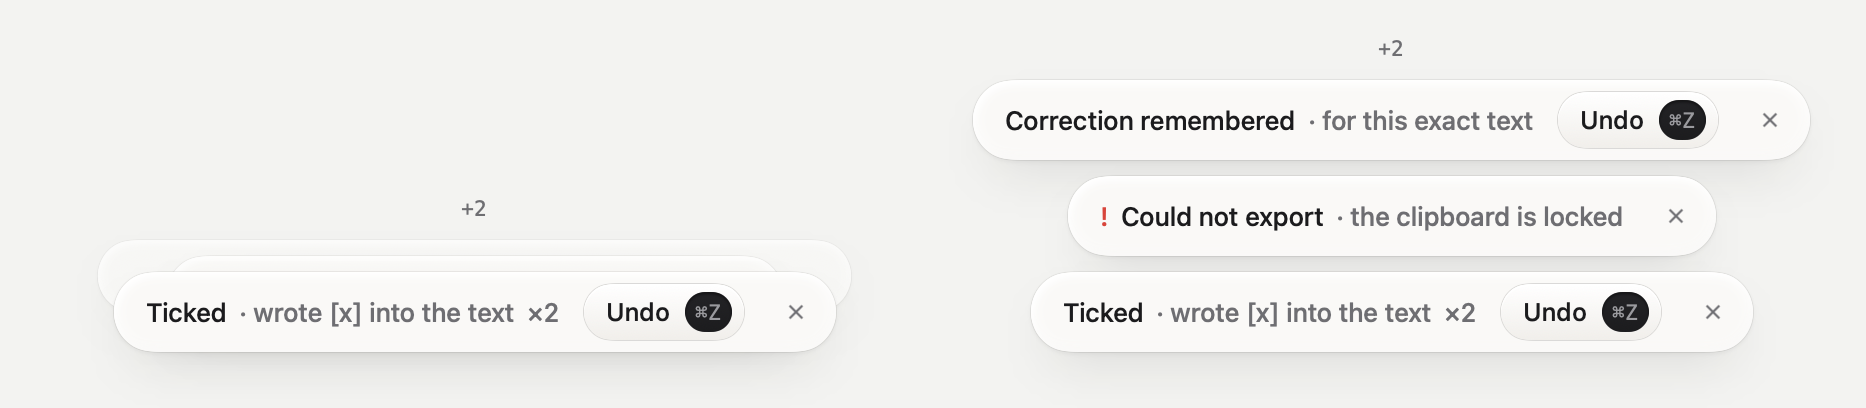
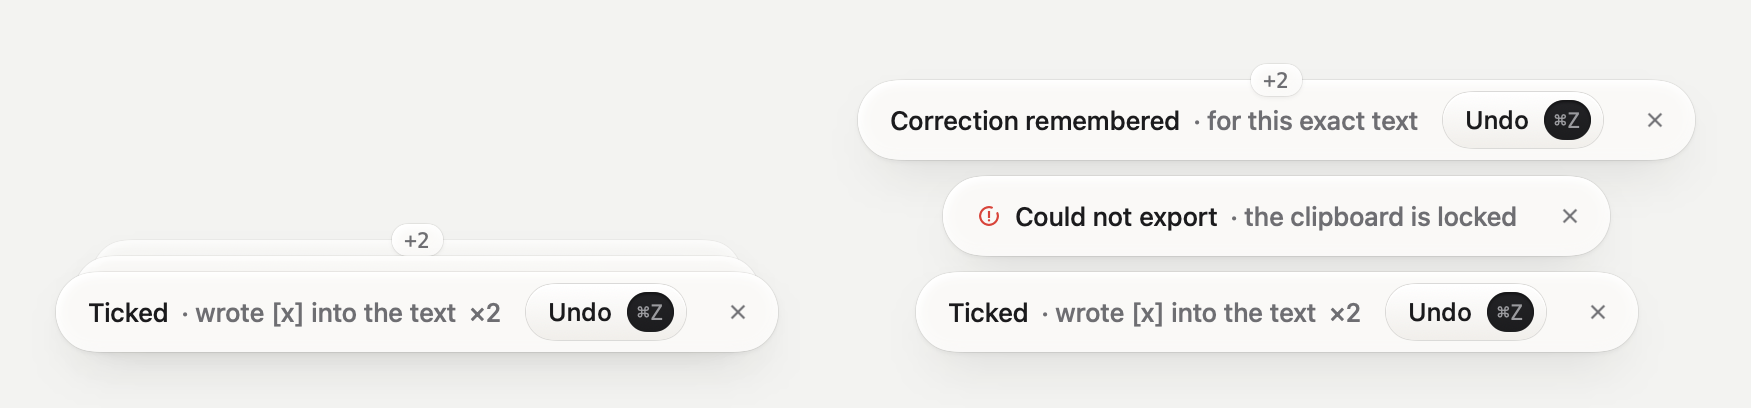
feat(toast): cards behind take the front card's width; +N on a tab; marks from the set
- Folded, the cards behind take the front card's layout width (measured by
  a ResizeObserver, --mu-toast-front-w); fanned out, each its own width.
- The "+N" count is a small glass tab on the back card's top edge
  (deck.more-height 16, deck.more-pad 6) instead of floating above it.
- React error toasts carry the set's sync-error in red, success the set's
  check (was a text ✓); SwiftUI uses the same glyphs (was "✓" and "!").
- SwiftUI: the deck fans out on keyboard focus too (one focus stop, and
  focus on a card's keys keeps it open, via a FocusedValue), not only hover.

diff --git a/swift/Sources/MetalUI/Components/MetalToast.swift b/swift/Sources/MetalUI/Components/MetalToast.swift
@@ -45,6 +45,8 @@ public struct MetalToast: View {
     let onClose: (() -> Void)?
     /// A card behind the front of a folded deck: the pill shows, its words don't.
     var concealed = false
+    /// A card behind the front one takes the front card's width.
+    var width: CGFloat?
     @Environment(\.metalColorway) private var colorway
 
     public init(_ model: MetalToastModel, count: Int = 1, onUndo: @escaping () -> Void = {}, onClose: (() -> Void)? = nil) {
@@ -59,8 +61,8 @@ public struct MetalToast: View {
         let cw = MetalRecipeColorway(colorway)
         return HStack(spacing: recipe.points("self.gap")) {
             HStack(spacing: recipe.points("text.gap")) {
-                if model.tone == .success { Text("✓").foregroundColor(MetalShared.success.color).accessibilityLabel("Done") }
-                if model.tone == .error { Text("!").foregroundColor(MetalShared.red.color).accessibilityLabel("Error") }
+                if model.tone == .success { MetalIcon(.check, size: 14).foregroundStyle(MetalShared.success.color).accessibilityLabel("Done") }
+                if model.tone == .error { MetalIcon(.syncError, size: 14).foregroundStyle(MetalShared.red.color).accessibilityLabel("Error") }
                 Text(model.title)
                 if let sub = model.sub { Text("· \(sub)").foregroundColor((recipe.color("sub.ink", colorway: cw) ?? colorway.tokens.ink2).color) }
                 if count > 1 {
@@ -105,6 +107,7 @@ public struct MetalToast: View {
         .padding(.trailing, model.undo != nil || onClose != nil ? recipe.points("self.pad-right") : recipe.points("self.pad-left"))
         .frame(height: recipe.points("self.height"))
         .fixedSize()
+        .frame(width: width)
         .metalObjectRecipe(recipe, part: "self", in: Capsule(style: .continuous))
         .background(.ultraThinMaterial, in: Capsule(style: .continuous))
         .accessibilityElement(children: .contain)
@@ -168,11 +171,12 @@ extension View {
 //
 // rest      each card behind is a step smaller (deck.step-scale), peeks deck.peek upward
 //           past the card in front, is deck.dim dimmer, its words hidden; deck.visible
-//           drawn, the rest counted (+2) above the back card
+//           drawn, the rest counted (+2) on a tab in the back card's top edge; the cards behind
+//           take the front card's width (fanned out, each its own)
 // arrive    the new card rises self.rise from below, from self.scale, into the front on the
 //           object spring; the cards behind step back one on the same spring, together
-// fan out   the pointer on the deck: a column deck.gap apart on the surface spring; every
-//           clock pauses. The pointer leaves: back into the deck on the surface spring
+// fan out   the pointer on the deck, or keyboard focus in it: a column deck.gap apart on the
+//           surface spring; every clock pauses. Both leave: back into the deck on the surface spring
 // swipe     the front card follows the finger (down or right); past deck.swipe on release
 //           it leaves on release; short of it, it settles home
 // close     its close key: it leaves on release; the next card comes forward
@@ -219,6 +223,7 @@ public struct MetalToastDeckView: View {
     let deck: MetalToastDeck
     let expanded: Bool
     @State private var drag: CGSize = .zero
+    @State private var frontWidth: CGFloat?
     @Environment(\.accessibilityReduceMotion) private var reduceMotion
 
     public init(_ deck: MetalToastDeck, expanded: Bool = false) {
@@ -242,7 +247,9 @@ public struct MetalToastDeckView: View {
                 MetalToastDeckCard(deck: deck, card: card, index: index, expanded: expanded,
                                    drag: index == 0 ? drag : .zero, travel: travel,
                                    more: index == drawn.count - 1 ? more : 0,
+                                   width: index > 0 && !expanded ? frontWidth : nil,
                                    onDismiss: { dismiss(card.id) })
+                    .onGeometryChange(for: CGFloat.self) { $0.size.width } action: { if index == 0 { frontWidth = $0 } }
                     .zIndex(Double(visible - index))
                     .gesture(swipe(card.id), including: index == 0 ? .all : .subviews)
                     .transition(.asymmetric(
@@ -288,6 +295,7 @@ private struct MetalToastDeckCard: View {
     let drag: CGSize
     let travel: Bool
     let more: Int
+    let width: CGFloat?
     let onDismiss: () -> Void
     @State private var pressed = false
     @Environment(\.accessibilityReduceMotion) private var reduceMotion
@@ -300,6 +308,7 @@ private struct MetalToastDeckCard: View {
         let lift = expanded ? step * (recipe.points("self.height") + recipe.points("deck.gap")) : step * recipe.points("deck.peek")
         var toast = MetalToast(card.model, count: card.count, onUndo: onDismiss, onClose: onDismiss)
         toast.concealed = index > 0 && !expanded
+        toast.width = width
         return toast
             .metalHitRegion(true)
             .scaleEffect(pressed && travel ? recipe.scalar("deck.press") : 1)
@@ -315,8 +324,11 @@ private struct MetalToastDeckCard: View {
                         .metalType(MetalType.readout)
                         .foregroundColor((recipe.color("sub.ink", colorway: MetalRecipeColorway(colorway)) ?? colorway.tokens.ink2).color)
                         .fixedSize()
-                        // Above the card where it is drawn (its offset moves the drawing, not its frame).
-                        .offset(y: -(MetalType.readout.line + recipe.points("deck.peek")) - lift)
+                        .padding(.horizontal, recipe.points("deck.more-pad"))
+                        .frame(height: recipe.points("deck.more-height"))
+                        .metalObjectRecipe(recipe, part: "self", in: Capsule(style: .continuous))
+                        // A tab on the back card's top edge, where it is drawn (its offset moves the drawing, not its frame).
+                        .offset(y: -recipe.points("deck.more-height") / 2 - lift)
                         .accessibilityHidden(true)
                 }
             }
@@ -343,19 +355,38 @@ private struct MetalToastDeckCard: View {
 
 private struct MetalToastDeckHost: ViewModifier {
     let deck: MetalToastDeck
-    @State private var expanded = false
+    @State private var hovering = false
+    @FocusState private var focused: Bool
+    /// Set while keyboard focus is anywhere in the deck: on it, or on a card's Undo or close key.
+    @FocusedValue(\.metalToastDeckFocus) private var focusWithin
     @Environment(\.accessibilityReduceMotion) private var reduceMotion
 
     func body(content: Content) -> some View {
+        let expanded = hovering || focused || focusWithin == true
         content.overlay(alignment: .bottom) {
             MetalToastDeckView(deck, expanded: expanded)
                 .contentShape(Rectangle())
+                // Tab (or F6) reaches the deck as one stop, as the web deck's landmark does.
+                .focusable()
+                .focusEffectDisabled()
+                .focused($focused)
+                .focusedValue(\.metalToastDeckFocus, true)
                 .onHover { inside in
-                    withMetalAnimation(.surface, reduceMotion: reduceMotion) { expanded = inside }
-                    deck.paused = inside
+                    withMetalAnimation(.surface, reduceMotion: reduceMotion) { hovering = inside }
                 }
+                .onChange(of: expanded) { _, now in deck.paused = now }
+                .metalAnimation(.surface, value: focused || focusWithin == true)
                 .padding(.bottom, MetalRecipes.toast.points("self.bottom"))
         }
+    }
+}
+
+private struct MetalToastDeckFocusKey: FocusedValueKey { typealias Value = Bool }
+
+extension FocusedValues {
+    var metalToastDeckFocus: Bool? {
+        get { self[MetalToastDeckFocusKey.self] }
+        set { self[MetalToastDeckFocusKey.self] = newValue }
     }
 }
 

diff --git a/packages/metalui/src/components/theme.css b/packages/metalui/src/components/theme.css
@@ -1328,6 +1328,8 @@
   --spacing-toast-deck-peek: var(--mu-r-toast-deck-peek);
   --spacing-toast-deck-gap: var(--mu-r-toast-deck-gap);
   --spacing-toast-deck-swipe: var(--mu-r-toast-deck-swipe);
+  --spacing-toast-deck-more-height: var(--mu-r-toast-deck-more-height);
+  --spacing-toast-deck-more-pad: var(--mu-r-toast-deck-more-pad);
   --spacing-toast-close-size: var(--mu-r-toast-close-size);
   --color-toast-close-ink: var(--mu-r-toast-close-ink);
   --spacing-toast-text-gap: var(--mu-r-toast-text-gap);
@@ -3700,7 +3702,7 @@
   --mu-toast-spring: var(--mu-spring-object); --mu-toast-spring-d: calc(var(--mu-spring-object-d) * var(--mu-travel-object)); &[data-expanded], &[data-folding] { --mu-toast-spring: var(--mu-spring-surface); --mu-toast-spring-d: calc(var(--mu-spring-surface-d) * var(--mu-travel-surface)); }
 }
 @utility toast-deck {
-  --mu-toast-i: var(--toast-index, 0); --mu-toast-x: var(--toast-swipe-movement-x, 0px); --mu-toast-y: var(--toast-swipe-movement-y, 0px); --mu-toast-back: calc(var(--mu-toast-i) * var(--mu-r-toast-deck-peek) * -1); --mu-toast-fan: calc((var(--toast-offset-y, 0px) + var(--mu-toast-i) * var(--mu-r-toast-deck-gap)) * -1); position: absolute; bottom: 0; inset-inline: 0; margin-inline: auto; width: max-content; z-index: calc(var(--mu-r-toast-deck-visible) + 1 - var(--mu-toast-i)); transform-origin: 50% 0; transform: translateX(var(--mu-toast-x)) translateY(calc(var(--mu-toast-y) + var(--mu-toast-back))) scale(calc(1 - (1 - var(--mu-r-toast-deck-step-scale)) * var(--mu-toast-i))); opacity: calc(1 - var(--mu-r-toast-deck-dim) * var(--mu-toast-i)); &::after { content: ''; position: absolute; inset-inline: 0; top: 100%; height: calc(var(--mu-r-toast-deck-gap) + 1px); } &[data-expanded] { transform: translateX(var(--mu-toast-x)) translateY(calc(var(--mu-toast-y) + var(--mu-toast-fan))); opacity: 1; } &[data-limited] { opacity: 0; pointer-events: none; } &[data-starting-style] { opacity: 0; transform: translateY(calc(var(--mu-r-toast-self-rise) * var(--mu-travel-object))) scale(calc(1 - (1 - var(--mu-r-toast-self-scale)) * var(--mu-travel-object))); } &[data-ending-style] { opacity: 0; transform: translateY(calc(var(--mu-toast-back) + var(--mu-r-toast-self-rise) * var(--mu-travel-settle))) scale(calc(1 - (1 - var(--mu-r-toast-deck-step-scale)) * var(--mu-toast-i))); transition: opacity var(--mu-spring-release-d) var(--mu-spring-release), transform var(--mu-spring-release-d) var(--mu-spring-release); } &[data-ending-style][data-expanded] { transform: translateY(calc(var(--mu-toast-fan) + var(--mu-r-toast-self-rise) * var(--mu-travel-settle))); } &[data-ending-style][data-swipe-direction=right] { transform: translateX(calc(var(--mu-toast-x) + 60% * var(--mu-travel-release))) translateY(calc(var(--mu-toast-y) + var(--mu-toast-back))); } &[data-ending-style][data-expanded][data-swipe-direction=right] { transform: translateX(calc(var(--mu-toast-x) + 60% * var(--mu-travel-release))) translateY(calc(var(--mu-toast-y) + var(--mu-toast-fan))); } &[data-ending-style][data-swipe-direction=down] { transform: translateY(calc(var(--mu-toast-y) + 100% * var(--mu-travel-release))); }
+  --mu-toast-i: var(--toast-index, 0); --mu-toast-x: var(--toast-swipe-movement-x, 0px); --mu-toast-y: var(--toast-swipe-movement-y, 0px); --mu-toast-back: calc(var(--mu-toast-i) * var(--mu-r-toast-deck-peek) * -1); --mu-toast-fan: calc((var(--toast-offset-y, 0px) + var(--mu-toast-i) * var(--mu-r-toast-deck-gap)) * -1); position: absolute; bottom: 0; inset-inline: 0; margin-inline: auto; width: max-content; z-index: calc(var(--mu-r-toast-deck-visible) + 1 - var(--mu-toast-i)); &[data-back]:not([data-expanded]) { width: var(--mu-toast-front-w, max-content); } transform-origin: 50% 0; transform: translateX(var(--mu-toast-x)) translateY(calc(var(--mu-toast-y) + var(--mu-toast-back))) scale(calc(1 - (1 - var(--mu-r-toast-deck-step-scale)) * var(--mu-toast-i))); opacity: calc(1 - var(--mu-r-toast-deck-dim) * var(--mu-toast-i)); &::after { content: ''; position: absolute; inset-inline: 0; top: 100%; height: calc(var(--mu-r-toast-deck-gap) + 1px); } &[data-expanded] { transform: translateX(var(--mu-toast-x)) translateY(calc(var(--mu-toast-y) + var(--mu-toast-fan))); opacity: 1; } &[data-limited] { opacity: 0; pointer-events: none; } &[data-starting-style] { opacity: 0; transform: translateY(calc(var(--mu-r-toast-self-rise) * var(--mu-travel-object))) scale(calc(1 - (1 - var(--mu-r-toast-self-scale)) * var(--mu-travel-object))); } &[data-ending-style] { opacity: 0; transform: translateY(calc(var(--mu-toast-back) + var(--mu-r-toast-self-rise) * var(--mu-travel-settle))) scale(calc(1 - (1 - var(--mu-r-toast-deck-step-scale)) * var(--mu-toast-i))); transition: opacity var(--mu-spring-release-d) var(--mu-spring-release), transform var(--mu-spring-release-d) var(--mu-spring-release); } &[data-ending-style][data-expanded] { transform: translateY(calc(var(--mu-toast-fan) + var(--mu-r-toast-self-rise) * var(--mu-travel-settle))); } &[data-ending-style][data-swipe-direction=right] { transform: translateX(calc(var(--mu-toast-x) + 60% * var(--mu-travel-release))) translateY(calc(var(--mu-toast-y) + var(--mu-toast-back))); } &[data-ending-style][data-expanded][data-swipe-direction=right] { transform: translateX(calc(var(--mu-toast-x) + 60% * var(--mu-travel-release))) translateY(calc(var(--mu-toast-y) + var(--mu-toast-fan))); } &[data-ending-style][data-swipe-direction=down] { transform: translateY(calc(var(--mu-toast-y) + 100% * var(--mu-travel-release))); }
 }
 @utility toast-content {
   display: flex; align-items: center; gap: var(--mu-r-toast-self-gap); transition: opacity var(--mu-spring-settle-d) var(--mu-spring-settle); &[data-behind]:not([data-expanded]) { opacity: 0; }
@@ -3709,7 +3711,7 @@
   &[data-bump=a] { animation: mu-toast-bump-a var(--mu-spring-part-d) var(--mu-spring-part); } &[data-bump=b] { animation: mu-toast-bump-b var(--mu-spring-part-d) var(--mu-spring-part); }
 }
 @utility toast-more {
-  position: absolute; bottom: calc(100% + var(--mu-r-toast-deck-peek)); inset-inline: 0; margin-inline: auto; width: max-content; pointer-events: none;
+  position: absolute; top: 0; inset-inline: 0; margin-inline: auto; width: max-content; height: var(--mu-r-toast-deck-more-height); padding-inline: var(--mu-r-toast-deck-more-pad); display: inline-flex; align-items: center; border-radius: 999px; translate: 0 -50%; pointer-events: none;
 }
 @utility toast-undo-focus {
   outline: var(--mu-focus-width) solid var(--mu-green); outline-offset: var(--mu-focus-offset);

diff --git a/packages/metalui/src/components/toast/toast.tsx b/packages/metalui/src/components/toast/toast.tsx
@@ -2,7 +2,7 @@
 
 import * as React from 'react';
 import { Toast } from '@base-ui/react/toast';
-import { CloseIcon } from '../../icons/components.generated';
+import { CheckIcon, CloseIcon, SyncErrorIcon } from '../../icons/components.generated';
 import { Kbd } from '../kbd/kbd';
 import { useIsoLayoutEffect } from '../../motion/layout-effect';
 
@@ -12,7 +12,9 @@ import { useIsoLayoutEffect } from '../../motion/layout-effect';
  * rest      the newest toast in front; each older one a step back behind it:
  *           scale .95 per step, peeking 8 past the card in front on the side away
  *           from the screen edge (a bottom deck peeks upward), 20% dimmer, its
- *           words hidden; 3 drawn, the rest counted (+2) above the back card
+ *           words hidden, and as wide as the front card (fanned out, each its own
+ *           width); 3 drawn, the rest counted (+2) on a tab in the back card's edge
+ * marks     success leads with the set's check in green, an error with sync-error in red
  * arrive
  *     0ms   the new toast rises 8 from below, from .97 and opacity 0, into the
  *           front on the object spring (0.92 s); in the same frame every card
@@ -104,10 +106,11 @@ const CONTENT = 'mu-toast-content toast-content';
 const TEXT = 'mu-toast-text inline-flex items-center gap-toast-text-gap';
 const SUB = 'mu-toast-sub text-toast-sub-ink';
 const COUNT = 'mu-toast-count text-toast-sub-ink tabular-nums';
-const CHECK = 'mu-toast-check text-success';
+const CHECK = 'mu-toast-check inline-grid text-success';
+const FAILED = 'mu-toast-error inline-grid text-red';
 const UNDO = 'mu-toast-undo inline-flex items-center gap-toast-undo-gap h-toast-undo-height pl-toast-undo-pad-left pr-toast-undo-pad-right border-0 rounded-pill type-toast-undo text-inherit recipe-toast-undo cursor-pointer transition-transform ease-release duration-release active:translate-y-press active:duration-toast-undo-press focus-visible:toast-undo-focus';
 const CLOSE = 'mu-toast-close inline-grid place-items-center size-toast-close-size p-0 border-0 rounded-pill bg-transparent text-toast-close-ink cursor-pointer hover:recipe-toast-undo hover:text-toast-ink transition-transform ease-release duration-release active:translate-y-press active:duration-toast-undo-press focus-visible:toast-undo-focus';
-const MORE = 'mu-toast-more toast-more type-readout text-toast-sub-ink';
+const MORE = 'mu-toast-more toast-more type-readout text-toast-sub-ink recipe-toast';
 const KEY = 'text-toast-kbd-ink recipe-toast-kbd';
 
 /** The toast's part classes, for stills of it outside the toast region (docs, previews). */
@@ -151,16 +154,29 @@ function ToastList({ visible }: { visible: number }) {
   }, []);
   const more = Math.max(0, live.length - visible);
   const back = more > 0 ? live[visible - 1]?.id : undefined;
+  // The cards behind take the front card's width (its layout width, not the drawn one, so its arrival
+  // scale doesn't narrow them).
+  const front = live[0]?.id;
+  const [frontWidth, setFrontWidth] = React.useState<number>();
+  const watching = React.useRef<ResizeObserver | null>(null);
+  const measureFront = React.useCallback((el: HTMLElement | null) => {
+    watching.current?.disconnect();
+    watching.current = null;
+    if (!el || typeof ResizeObserver === 'undefined') return;
+    watching.current = new ResizeObserver(() => { if (el.offsetWidth) setFrontWidth(el.offsetWidth); });
+    watching.current.observe(el);
+  }, []);
   return (
     <Toast.Portal>
-      <Toast.Viewport className={VIEWPORT} render={(props, state) => <DeckViewport {...props} expanded={state.expanded} />}>
+      <Toast.Viewport className={VIEWPORT} style={frontWidth ? ({ '--mu-toast-front-w': `${frontWidth}px` } as React.CSSProperties) : undefined} render={(props, state) => <DeckViewport {...props} expanded={state.expanded} />}>
         {toasts.map((t) => {
           const times = (t.data as ToastData | undefined)?.count ?? 1;
           return (
-            <Toast.Root key={t.id} toast={t} className={`${TOAST} ${DECK}`} data-type={t.type} data-bump={times > 1 ? (times % 2 ? 'a' : 'b') : undefined}>
+            <Toast.Root key={t.id} ref={t.id === front ? measureFront : undefined} toast={t} className={`${TOAST} ${DECK}`} data-type={t.type} data-back={t.id !== front ? '' : undefined} data-bump={times > 1 ? (times % 2 ? 'a' : 'b') : undefined}>
               <Toast.Content className={CONTENT}>
                 <span className={TEXT}>
-                  {t.type === 'success' && <span aria-hidden className={CHECK}>✓</span>}
+                  {t.type === 'success' && <span aria-hidden className={CHECK}><CheckIcon size={14} animate={false} /></span>}
+                  {t.type === 'error' && <span aria-hidden className={FAILED}><SyncErrorIcon size={14} animate={false} /></span>}
                   <Toast.Title render={<span />}>{t.title}</Toast.Title>
                   {t.description && <Toast.Description render={<span className={SUB} />}>· {t.description}</Toast.Description>}
                   {times > 1 && <span className={COUNT}>×{times}</span>}

diff --git a/e2e/toast.spec.ts b/e2e/toast.spec.ts
@@ -44,6 +44,15 @@ for (const colorway of COLORWAYS) {
     await expect(drawn(page).first()).toContainText('Ticked');
     // The two not drawn are counted above the back card.
     await expect(page.locator('.mu-toast-more')).toHaveText('+2');
+    // Folded, the cards behind take the front card's width, and the count is a tab on the back card's top edge.
+    const widths = await drawn(page).evaluateAll((els) => els.map((el) => (el as HTMLElement).offsetWidth));
+    expect(new Set(widths).size).toBe(1);
+    const tab = (await page.locator('.mu-toast-more').boundingBox())!;
+    const backCard = (await drawn(page).nth(2).boundingBox())!;
+    expect(Math.abs(tab.y + tab.height / 2 - backCard.y)).toBeLessThan(2);
+    // The error carries its red mark (the set's sync-error), as success carries its check.
+    await expect(live(page).filter({ hasText: 'Could not export' }).locator('.mu-toast-error svg.mu-ic-sync-error')).toHaveCount(1);
+    await expect(live(page).filter({ hasText: 'Pinned' }).locator('.mu-toast-check svg.mu-ic-check')).toHaveCount(1);
     await page.screenshot({ path: capture(`toast-deck-${colorway}`), clip: DECK_CLIP });
 
     // Pointing at the deck fans it out into a column you can read, and holds every timer.
@@ -52,6 +61,8 @@ for (const colorway of COLORWAYS) {
     await settled(live(page));
     const boxes = await Promise.all([0, 1, 2].map(async (i) => (await drawn(page).nth(i).boundingBox())!));
     for (let i = 1; i < boxes.length; i++) expect(boxes[i].y + boxes[i].height).toBeLessThanOrEqual(boxes[i - 1].y + 0.5);
+    // Fanned out, each card is as wide as its own words.
+    expect(new Set(boxes.map((b) => Math.round(b.width))).size).toBeGreaterThan(1);
     await page.screenshot({ path: capture(`toast-fan-${colorway}`), clip: DECK_CLIP });
 
     // Leaving folds it back.

diff --git a/swift/Sources/MetalUI/Tokens/MetalTokens.generated.swift b/swift/Sources/MetalUI/Tokens/MetalTokens.generated.swift
@@ -3169,6 +3169,8 @@ public enum MetalRecipes {
             "deck.gap": .number(8.0),
             "deck.swipe": .number(40.0),
             "deck.press": .text("0.96"),
+            "deck.more-height": .number(16.0),
+            "deck.more-pad": .number(6.0),
             "close.size": .number(28.0),
             "close.ink": .perColorway(bone: "#6E6E72", graphite: "#9A9AA0"),
             "text.gap": .number(6.0),

diff --git a/packages/metalui/src/components/tokens.css b/packages/metalui/src/components/tokens.css
@@ -2218,6 +2218,8 @@
   --mu-r-toast-deck-gap: 8px;
   --mu-r-toast-deck-swipe: 40px;
   --mu-r-toast-deck-press: 0.96;
+  --mu-r-toast-deck-more-height: 16px;
+  --mu-r-toast-deck-more-pad: 6px;
   --mu-r-toast-close-size: 28px;
   --mu-r-toast-text-gap: 6px;
   --mu-r-toast-undo-height: 28px;

diff --git a/packages/metalui/public/AI.md b/packages/metalui/public/AI.md
@@ -5945,16 +5945,16 @@ The result of a person's own action, with Undo. React: `ToastProvider` + `useToa
 
 ## Anatomy
 
-A 44 tall glass pill in the colorway (blur 22, its stack), padding 0 6 0 16, gap 12, the `ui` role; a detail after a middle dot; a count after a repeat (`×3`); an Undo cap (28 tall, a light top lip) with a sunk `⌘Z` keycap; a quiet 28 close key (×) that shows its cap on hover. Bone: a bone pill (`rgba(251,250,248,.92)`), ink `#1B1B1D`, detail `#6E6E72`, a bone cap (`#FFFFFF → #F0EFEB`). Graphite: a smoked pill (`rgba(30,30,33,.92)`), ink `#F2F2F0`, detail `#9A9AA0`, a graphite cap (`#3A3A3E → #2C2C2F`). Bottom centre, 92 above the dock. Success carries its check; an error its red mark.
+A 44 tall glass pill in the colorway (blur 22, its stack), padding 0 6 0 16, gap 12, the `ui` role; a detail after a middle dot; a count after a repeat (`×3`); an Undo cap (28 tall, a light top lip) with a sunk `⌘Z` keycap; a quiet 28 close key (×) that shows its cap on hover. Bone: a bone pill (`rgba(251,250,248,.92)`), ink `#1B1B1D`, detail `#6E6E72`, a bone cap (`#FFFFFF → #F0EFEB`). Graphite: a smoked pill (`rgba(30,30,33,.92)`), ink `#F2F2F0`, detail `#9A9AA0`, a graphite cap (`#3A3A3E → #2C2C2F`). Bottom centre, 92 above the dock. Success carries the set's `check` in green; an error the set's `sync-error` in red (React and SwiftUI).
 
-The deck: toasts stack in depth, newest in front. Each card behind is a step smaller (×.95), peeks 8 past the card in front on the side away from the screen edge (a bottom deck peeks upward) and is 20 % dimmer, its words hidden. Three are drawn; the rest are counted above the back card (`+2`) and come forward as the front ones go. Fanned out, the cards stand 8 apart in a readable column.
+The deck: toasts stack in depth, newest in front. Each card behind is a step smaller (×.95), peeks 8 past the card in front on the side away from the screen edge (a bottom deck peeks upward) and is 20 % dimmer, its words hidden, and as wide as the front card (a short front toast never sits on wider cards). Three are drawn; the rest are counted on a small tab in the back card's top edge (`+2`, `deck.more-height` 16, `deck.more-pad` 6, in the toast's glass) and come forward as the front ones go. Fanned out, the cards stand 8 apart in a readable column, each as wide as its own words.
 
 ## States and motion
 
 | State | Motion |
 |---|---|
 | arrive | rises 8 from below, from .97, into the front on the object spring; every card behind steps back one on the same spring, in the same frame |
-| fan out | pointer on the deck, or focus into it (Tab, F6): the cards spread into a column on the surface spring; every timer pauses |
+| fan out | pointer on the deck, or focus into it (Tab, F6; SwiftUI: the deck is one focus stop, and focus on a card's keys keeps it open): the cards spread into a column on the surface spring; every timer pauses |
 | fold | pointer or focus leaves: back into the deck on the surface spring; timers resume |
 | swipe | follows the pointer (down or right); past 40 on release it leaves the way it was thrown on release; short of it, springs home |
 | close | the close key, or Esc on the focused toast: leaves on release; the next card comes forward |

diff --git a/packages/metalui/public/r/toast.md b/packages/metalui/public/r/toast.md
@@ -14,16 +14,16 @@ The result of a person's own action, with Undo. React: `ToastProvider` + `useToa
 
 ## Anatomy
 
-A 44 tall glass pill in the colorway (blur 22, its stack), padding 0 6 0 16, gap 12, the `ui` role; a detail after a middle dot; a count after a repeat (`×3`); an Undo cap (28 tall, a light top lip) with a sunk `⌘Z` keycap; a quiet 28 close key (×) that shows its cap on hover. Bone: a bone pill (`rgba(251,250,248,.92)`), ink `#1B1B1D`, detail `#6E6E72`, a bone cap (`#FFFFFF → #F0EFEB`). Graphite: a smoked pill (`rgba(30,30,33,.92)`), ink `#F2F2F0`, detail `#9A9AA0`, a graphite cap (`#3A3A3E → #2C2C2F`). Bottom centre, 92 above the dock. Success carries its check; an error its red mark.
+A 44 tall glass pill in the colorway (blur 22, its stack), padding 0 6 0 16, gap 12, the `ui` role; a detail after a middle dot; a count after a repeat (`×3`); an Undo cap (28 tall, a light top lip) with a sunk `⌘Z` keycap; a quiet 28 close key (×) that shows its cap on hover. Bone: a bone pill (`rgba(251,250,248,.92)`), ink `#1B1B1D`, detail `#6E6E72`, a bone cap (`#FFFFFF → #F0EFEB`). Graphite: a smoked pill (`rgba(30,30,33,.92)`), ink `#F2F2F0`, detail `#9A9AA0`, a graphite cap (`#3A3A3E → #2C2C2F`). Bottom centre, 92 above the dock. Success carries the set's `check` in green; an error the set's `sync-error` in red (React and SwiftUI).
 
-The deck: toasts stack in depth, newest in front. Each card behind is a step smaller (×.95), peeks 8 past the card in front on the side away from the screen edge (a bottom deck peeks upward) and is 20 % dimmer, its words hidden. Three are drawn; the rest are counted above the back card (`+2`) and come forward as the front ones go. Fanned out, the cards stand 8 apart in a readable column.
+The deck: toasts stack in depth, newest in front. Each card behind is a step smaller (×.95), peeks 8 past the card in front on the side away from the screen edge (a bottom deck peeks upward) and is 20 % dimmer, its words hidden, and as wide as the front card (a short front toast never sits on wider cards). Three are drawn; the rest are counted on a small tab in the back card's top edge (`+2`, `deck.more-height` 16, `deck.more-pad` 6, in the toast's glass) and come forward as the front ones go. Fanned out, the cards stand 8 apart in a readable column, each as wide as its own words.
 
 ## States and motion
 
 | State | Motion |
 |---|---|
 | arrive | rises 8 from below, from .97, into the front on the object spring; every card behind steps back one on the same spring, in the same frame |
-| fan out | pointer on the deck, or focus into it (Tab, F6): the cards spread into a column on the surface spring; every timer pauses |
+| fan out | pointer on the deck, or focus into it (Tab, F6; SwiftUI: the deck is one focus stop, and focus on a card's keys keeps it open): the cards spread into a column on the surface spring; every timer pauses |
 | fold | pointer or focus leaves: back into the deck on the surface spring; timers resume |
 | swipe | follows the pointer (down or right); past 40 on release it leaves the way it was thrown on release; short of it, springs home |
 | close | the close key, or Esc on the focused toast: leaves on release; the next card comes forward |

diff --git a/packages/metalui/src/components/toast/toast.agent.md b/packages/metalui/src/components/toast/toast.agent.md
@@ -14,16 +14,16 @@ The result of a person's own action, with Undo. React: `ToastProvider` + `useToa
 
 ## Anatomy
 
-A 44 tall glass pill in the colorway (blur 22, its stack), padding 0 6 0 16, gap 12, the `ui` role; a detail after a middle dot; a count after a repeat (`×3`); an Undo cap (28 tall, a light top lip) with a sunk `⌘Z` keycap; a quiet 28 close key (×) that shows its cap on hover. Bone: a bone pill (`rgba(251,250,248,.92)`), ink `#1B1B1D`, detail `#6E6E72`, a bone cap (`#FFFFFF → #F0EFEB`). Graphite: a smoked pill (`rgba(30,30,33,.92)`), ink `#F2F2F0`, detail `#9A9AA0`, a graphite cap (`#3A3A3E → #2C2C2F`). Bottom centre, 92 above the dock. Success carries its check; an error its red mark.
+A 44 tall glass pill in the colorway (blur 22, its stack), padding 0 6 0 16, gap 12, the `ui` role; a detail after a middle dot; a count after a repeat (`×3`); an Undo cap (28 tall, a light top lip) with a sunk `⌘Z` keycap; a quiet 28 close key (×) that shows its cap on hover. Bone: a bone pill (`rgba(251,250,248,.92)`), ink `#1B1B1D`, detail `#6E6E72`, a bone cap (`#FFFFFF → #F0EFEB`). Graphite: a smoked pill (`rgba(30,30,33,.92)`), ink `#F2F2F0`, detail `#9A9AA0`, a graphite cap (`#3A3A3E → #2C2C2F`). Bottom centre, 92 above the dock. Success carries the set's `check` in green; an error the set's `sync-error` in red (React and SwiftUI).
 
-The deck: toasts stack in depth, newest in front. Each card behind is a step smaller (×.95), peeks 8 past the card in front on the side away from the screen edge (a bottom deck peeks upward) and is 20 % dimmer, its words hidden. Three are drawn; the rest are counted above the back card (`+2`) and come forward as the front ones go. Fanned out, the cards stand 8 apart in a readable column.
+The deck: toasts stack in depth, newest in front. Each card behind is a step smaller (×.95), peeks 8 past the card in front on the side away from the screen edge (a bottom deck peeks upward) and is 20 % dimmer, its words hidden, and as wide as the front card (a short front toast never sits on wider cards). Three are drawn; the rest are counted on a small tab in the back card's top edge (`+2`, `deck.more-height` 16, `deck.more-pad` 6, in the toast's glass) and come forward as the front ones go. Fanned out, the cards stand 8 apart in a readable column, each as wide as its own words.
 
 ## States and motion
 
 | State | Motion |
 |---|---|
 | arrive | rises 8 from below, from .97, into the front on the object spring; every card behind steps back one on the same spring, in the same frame |
-| fan out | pointer on the deck, or focus into it (Tab, F6): the cards spread into a column on the surface spring; every timer pauses |
+| fan out | pointer on the deck, or focus into it (Tab, F6; SwiftUI: the deck is one focus stop, and focus on a card's keys keeps it open): the cards spread into a column on the surface spring; every timer pauses |
 | fold | pointer or focus leaves: back into the deck on the surface spring; timers resume |
 | swipe | follows the pointer (down or right); past 40 on release it leaves the way it was thrown on release; short of it, springs home |
 | close | the close key, or Esc on the focused toast: leaves on release; the next card comes forward |
